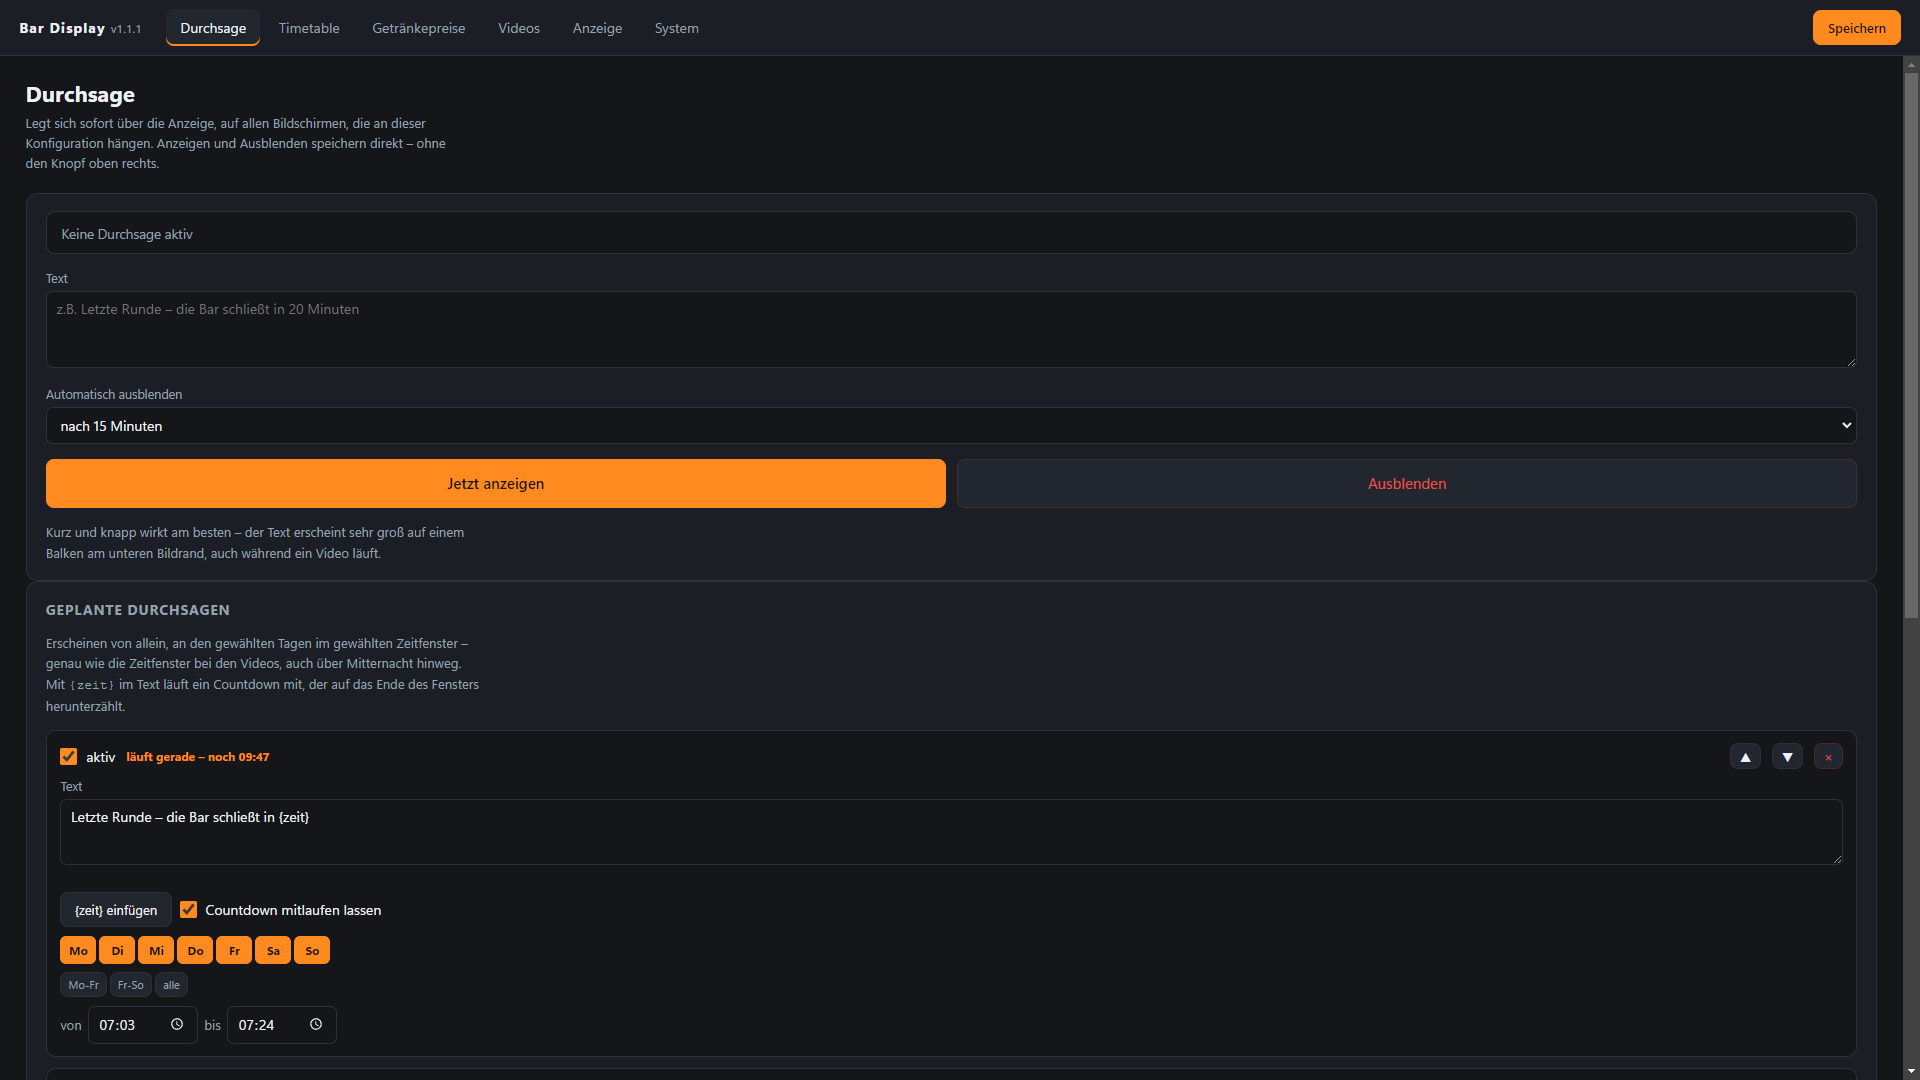
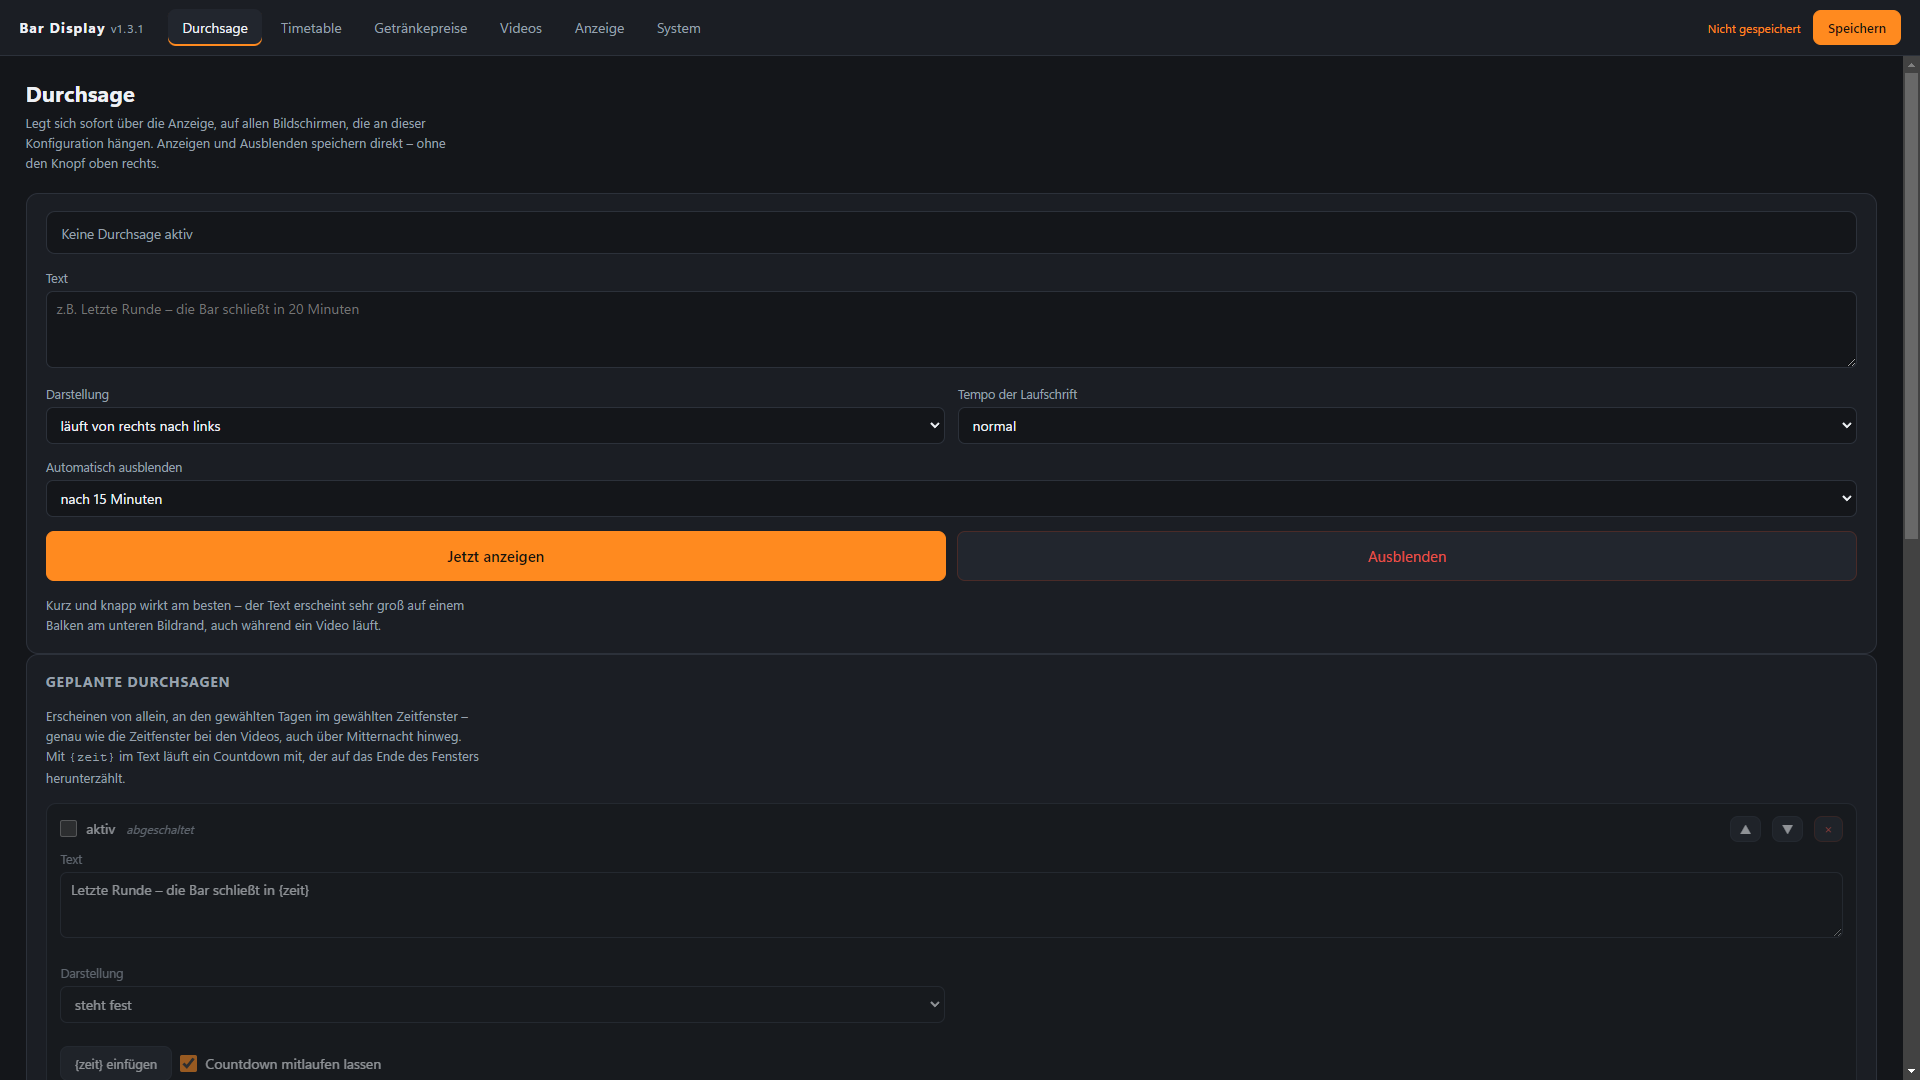
Durchsagen: Laufschrift von rechts nach links
Bisher stand jede Durchsage fest auf dem Balken - bei einem laengeren Satz war
damit Schluss. Jetzt zieht der Text wahlweise durch wie bei einem
Nachrichtensender.

- Pro Durchsage einstellbar, fuer die von Hand ausgeloeste wie fuer jeden Plan:
  Darstellung (fest / laufend) und Tempo (langsam, normal, schnell)
- Ohne Sprung: der Inhalt steht zweimal in der Spur, und wenn das zweite Stueck
  dort ankommt, wo das erste anfing, faengt die Animation wieder von vorn an
- Das Tempo rechnet in Bildschirmbreiten pro Sekunde, nicht in Pixeln. Sonst
  liefe dieselbe Einstellung auf einem grossen Fernseher gemuetlich und auf
  einem kleinen Bildschirm hektisch
- Die Dauer haengt an der Textlaenge, damit ein langer Text nicht schneller
  unterwegs ist als ein kurzer
- Ein Countdown laeuft mit: {zeit} steckt in beiden Stuecken und wird in beiden
  jede Sekunde nachgezogen
- Das Tempo-Feld wird ausgeblendet, wenn die Durchsage fest steht - sonst waere
  es ein Feld, das nichts tut

Dabei gefunden: der Balken wurde erst sichtbar gemacht, nachdem der Inhalt
gebaut war. Die Laufschrift misst dabei ihre eigene Breite, um die Dauer zu
bestimmen - in einem ausgeblendeten Element ist die aber null, und das Tempo
fiel stumm auf einen Ersatzwert zurueck. Reihenfolge getauscht.

Zwoelf neue Pruefungen, dazu am laufenden Bild gegengeprueft: die Spur wandert
gleichmaessig und nach genau einer Stueckbreite nahtlos weiter.

diff --git a/src/settings.js b/src/settings.js
@@ -184,6 +184,10 @@ function fillDurchsage() {
   const a = state.announcement;
   const feld = $('an_text');
   if (document.activeElement !== feld) feld.value = a.text || '';
+  const stil = durchsageStil(a);
+  $('an_modus').value = stil.modus;
+  $('an_tempo').value = stil.tempo;
+  tempoZeigen($('an_modus'), $('an_tempo'));
   durchsageStatus();
   renderPlaene();
   fillUhr();
@@ -192,12 +196,23 @@ function fillDurchsage() {
     feld.dataset.wired = '1';
     feld.addEventListener('input', () => { state.announcement.text = feld.value; markDirty(); });
 
+    for (const [id, feld] of [['an_modus', 'modus'], ['an_tempo', 'tempo']]) {
+      $(id).addEventListener('change', () => {
+        state.announcement = state.announcement || {};
+        state.announcement[feld] = $(id).value;
+        tempoZeigen($('an_modus'), $('an_tempo'));
+        markDirty();
+      });
+    }
+
     $('an_zeigen').addEventListener('click', async () => {
       const text = feld.value.trim();
       if (!text) { toast('Bitte erst einen Text eingeben', true); return; }
       const minuten = Number($('an_dauer').value) || 0;
       state.announcement = Object.assign({}, state.announcement, {
         enabled: true,
+        modus: $('an_modus').value,
+        tempo: $('an_tempo').value,
         text,
         until: minuten ? new Date(Date.now() + minuten * 60000).toISOString() : ''
       });
@@ -347,12 +362,20 @@ async function fillUhr() {
     + 'Pr\u00fcfen mit <code>timedatectl status</code> auf dem Pi.';
 }
 
+// Das Tempo betrifft nur die Laufschrift - bei "steht fest" waere es ein Feld,
+// das nichts tut.
+function tempoZeigen(modusFeld, tempoFeld) {
+  const box = tempoFeld && tempoFeld.closest('.field');
+  if (box) box.style.visibility = modusFeld.value === 'lauf' ? '' : 'hidden';
+}
+
 // ---------------------------------------------------------------------------
 // Geplante Durchsagen
 // ---------------------------------------------------------------------------
 function neuerPlan() {
   return { id: uid(), enabled: true, text: '', days: [5, 6],
-           from: '01:40', to: '02:00', countdown: true };
+           from: '01:40', to: '02:00', countdown: true,
+           modus: 'fest', tempo: 'normal' };
 }
 
 function plaene() {
@@ -414,6 +437,19 @@ function planZeile(pl, i) {
       + '<textarea data-f="text" rows="2" maxlength="200" '
       + 'placeholder="z.B. Letzte Runde \u2013 die Bar schlie\u00dft in {zeit}">'
       + escapeHtml(pl.text || '') + '</textarea></label>'
+    + '<div class="twoCol">'
+      + '<label class="field"><span>Darstellung</span>'
+        + '<select data-f="modus">'
+        + '<option value="fest">steht fest</option>'
+        + '<option value="lauf">l\u00e4uft von rechts nach links</option>'
+        + '</select></label>'
+      + '<label class="field"><span>Tempo der Laufschrift</span>'
+        + '<select data-f="tempo">'
+        + '<option value="langsam">langsam</option>'
+        + '<option value="normal">normal</option>'
+        + '<option value="schnell">schnell</option>'
+        + '</select></label>'
+    + '</div>'
     + '<div class="btnRow planWerkzeug">'
       + '<button data-act="zeit">{zeit} einf\u00fcgen</button>'
       + '<label class="checkline"><input type="checkbox" data-f="countdown"'
@@ -430,6 +466,20 @@ function planZeile(pl, i) {
 
   const txt = wrap.querySelector('[data-f=text]');
   txt.addEventListener('input', () => { pl.text = txt.value; markDirty(); planStatusSetzen(wrap, pl); });
+
+  const stil = durchsageStil(pl);
+  const modusFeld = wrap.querySelector('[data-f=modus]');
+  const tempoFeld = wrap.querySelector('[data-f=tempo]');
+  modusFeld.value = stil.modus;
+  tempoFeld.value = stil.tempo;
+  tempoZeigen(modusFeld, tempoFeld);
+  wrap.querySelectorAll('select[data-f]').forEach(sel => {
+    sel.addEventListener('change', () => {
+      pl[sel.dataset.f] = sel.value;
+      tempoZeigen(modusFeld, tempoFeld);
+      markDirty();
+    });
+  });
 
   wrap.querySelectorAll('input[type=time]').forEach(inp => {
     inp.addEventListener('input', () => {

diff --git a/test/schedule.test.js b/test/schedule.test.js
@@ -13,7 +13,7 @@ vm.runInContext(code, ctx);
 const { isVideoActive, describeWindows, timetableView, entryStartEnd, dayLabel, zeitImFenster,
         fensterEnde, countdownText, aktiveDurchsage, durchsageTeile,
         fotoAusschnitt, fotoStil, ausschnittIstStandard,
-        mitgeliefertesLogo } = ctx;
+        mitgeliefertesLogo, durchsageStil, laufDauer } = ctx;
 // Ein top-level const landet in einem vm-Kontext nicht auf dem globalen
 // Objekt (Funktionsdeklarationen schon). Im Browser sehen die anderen
 // Skripte es trotzdem - hier muss man es ausdruecklich auswerten.
@@ -170,6 +170,35 @@ check('Ohne Countdown faellt der Platzhalter weg',
       durchsageTeile('Bar schliesst in {zeit}', false), [{ text: 'Bar schliesst in' }]);
 check('Grossschreibung des Platzhalters zaehlt auch',
       durchsageTeile('Noch {ZEIT}', true), [{ text: 'Noch ' }, { zeit: true }]);
+
+console.log('-- Darstellung der Durchsagen --');
+check('ohne Angabe steht sie fest', durchsageStil({}), { modus: 'fest', tempo: 'normal' });
+check('ohne Quelle auch', durchsageStil(null), { modus: 'fest', tempo: 'normal' });
+check('Laufschrift wird uebernommen',
+      durchsageStil({ modus: 'lauf', tempo: 'schnell' }), { modus: 'lauf', tempo: 'schnell' });
+check('unbekannter Modus faellt auf fest zurueck',
+      durchsageStil({ modus: 'blinken' }).modus, 'fest');
+check('unbekanntes Tempo faellt auf normal zurueck',
+      durchsageStil({ modus: 'lauf', tempo: 'rasend' }).tempo, 'normal');
+
+// Der Plan liefert die Darstellung mit, sonst wuesste die Anzeige sie nicht
+const laufPlan = { id: 'l', text: 'Hallo', days: [0,1,2,3,4,5,6],
+                   from: '00:01', to: '23:59', modus: 'lauf', tempo: 'langsam' };
+const mitLauf = aktiveDurchsage({ announcement: { plans: [laufPlan] } }, FR(12, 0));
+check('Plan reicht den Modus durch', mitLauf.modus, 'lauf');
+check('Plan reicht das Tempo durch', mitLauf.tempo, 'langsam');
+const sofortLauf = aktiveDurchsage(
+  { announcement: { enabled: true, text: 'x', modus: 'lauf' } }, FR(12, 0));
+check('Sofort-Durchsage reicht den Modus durch', sofortLauf.modus, 'lauf');
+
+// Doppelte Textlaenge heisst doppelte Dauer - sonst waere ein langer Text
+// schneller unterwegs als ein kurzer
+check('Dauer waechst mit der Textlaenge',
+      laufDauer(3840, 1920, 'normal') / laufDauer(1920, 1920, 'normal'), 2);
+check('schneller ist kuerzer als langsamer',
+      laufDauer(1920, 1920, 'schnell') < laufDauer(1920, 1920, 'langsam'), true);
+check('nie unter vier Sekunden', laufDauer(10, 1920, 'schnell'), 4);
+check('ohne Masse ein brauchbarer Ersatzwert', laufDauer(0, 0, 'normal'), 12);
 
 console.log('-- Bildausschnitt --');
 check('ohne Angabe die Mitte', fotoAusschnitt({}), { x: 50, y: 50, z: 1 });

diff --git a/src/common.js b/src/common.js
@@ -193,20 +193,51 @@ function aktiveDurchsage(cfg, now) {
       const ende = new Date(a.until);
       if (!isNaN(ende) && now.getTime() >= ende.getTime()) offen = false;
     }
-    if (offen) return { text: a.text, ende: null, quelle: 'sofort' };
+    if (offen) {
+      return Object.assign({ text: a.text, ende: null, quelle: 'sofort' },
+                           durchsageStil(a));
+    }
   }
 
   for (const p of (a.plans || [])) {
     if (!p || p.enabled === false || !p.text) continue;
     if (!windowMatches(p, now)) continue;
-    return {
+    return Object.assign({
       text: p.text,
       ende: p.countdown === false ? null : fensterEnde(p, now),
       quelle: 'plan',
       id: p.id
-    };
+    }, durchsageStil(p));
   }
   return null;
+}
+
+// ---------------------------------------------------------------------------
+// Darstellung einer Durchsage
+// ---------------------------------------------------------------------------
+// 'fest' steht einfach da - kurz, laut, fertig. 'lauf' zieht den Text von
+// rechts nach links durch wie die Laufschrift bei einem Nachrichtensender;
+// damit passt auch ein laengerer Satz auf den Balken.
+//
+// Das Tempo steht in Bildschirmbreiten pro Sekunde, nicht in Pixeln: sonst
+// liefe dieselbe Einstellung auf einem grossen Fernseher gemuetlich und auf
+// einem kleinen Bildschirm hektisch.
+const LAUF_TEMPO = { langsam: 5, normal: 9, schnell: 15 };
+
+function durchsageStil(quelle) {
+  const q = quelle || {};
+  const modus = q.modus === 'lauf' ? 'lauf' : 'fest';
+  const tempo = LAUF_TEMPO[q.tempo] ? q.tempo : 'normal';
+  return { modus, tempo };
+}
+
+// Wie lange braucht ein Durchlauf? Haengt an der Textlaenge, damit die
+// Geschwindigkeit gleich bleibt und nicht der lange Text schneller wirkt.
+function laufDauer(breitePx, fensterPx, tempo) {
+  const proSekunde = LAUF_TEMPO[tempo] || LAUF_TEMPO.normal;
+  if (!breitePx || !fensterPx) return 12;
+  const inBreiten = breitePx / fensterPx * 100;
+  return Math.max(4, Math.round(inBreiten / proSekunde * 10) / 10);
 }
 
 // Platzhalter im Text durch die Restzeit ersetzen. Steht kein Platzhalter drin,

diff --git a/src/player.js b/src/player.js
@@ -143,23 +143,49 @@ function durchsagePruefen() {
     return;
   }
 
-  const kennung = (d.quelle || '') + '|' + (d.id || '') + '|' + d.text + '|' + (d.ende ? d.ende.getTime() : '');
+  const kennung = [d.quelle || '', d.id || '', d.text, d.ende ? d.ende.getTime() : '',
+                   d.modus, d.tempo].join('|');
+  // Sichtbar machen, bevor der Inhalt gebaut wird: die Laufschrift misst ihre
+  // eigene Breite, um die Dauer zu bestimmen, und in einem ausgeblendeten
+  // Element ist jede Breite null.
+  el.classList.add('an');
   if (kennung !== durchsageStand) {
     durchsageStand = kennung;
     durchsageEnde = d.ende;
     durchsageAufbauen(el, d);
   }
   durchsageTicken();
-  el.classList.add('an');
 }
 
 // Der Text wird in Stuecke zerlegt; das Stueck mit dem Countdown bekommt ein
 // eigenes Element, damit jede Sekunde nur diese Zahl neu geschrieben wird.
 function durchsageAufbauen(el, d) {
   const ziel = el.querySelector('.durchsageText');
-  ziel.innerHTML = durchsageTeile(d.text, !!d.ende).map(t =>
+  const inhalt = durchsageTeile(d.text, !!d.ende).map(t =>
     t.zeit ? '<b class="durchsageZeit">--:--</b>' : escapeHtml(t.text)
   ).join('');
+
+  if (d.modus !== 'lauf') {
+    ziel.className = 'durchsageText';
+    ziel.removeAttribute('style');
+    ziel.innerHTML = inhalt;
+    return;
+  }
+
+  // Laufschrift: der Inhalt steht zweimal hintereinander und die Spur wandert
+  // um genau die Haelfte nach links. Am Ende sitzt das zweite Stueck exakt da,
+  // wo das erste begann - dadurch laeuft es ohne sichtbaren Sprung weiter.
+  ziel.className = 'durchsageText lauf';
+  ziel.innerHTML = '<div class="laufSpur">' +
+    '<span class="laufStueck">' + inhalt + '</span>' +
+    '<span class="laufStueck" aria-hidden="true">' + inhalt + '</span>' +
+    '</div>';
+
+  const spur = ziel.querySelector('.laufSpur');
+  const stueck = ziel.querySelector('.laufStueck');
+  const dauer = laufDauer(stueck.getBoundingClientRect().width,
+                          ziel.getBoundingClientRect().width, d.tempo);
+  spur.style.animationDuration = dauer + 's';
 }
 
 function durchsageTicken() {

diff --git a/src/player.css b/src/player.css
@@ -666,6 +666,31 @@ body.instant .layer { transition: none; }
   max-width: 88%;
 }
 
+/* Laufschrift wie bei einem Nachrichtensender. Der Inhalt steht zweimal in der
+   Spur; sie wandert um die Haelfte nach links und faengt dann von vorn an -
+   dadurch entsteht ein durchgehender Lauf ohne Sprung. */
+.durchsageText.lauf {
+  max-width: 100%;
+  overflow: hidden;
+}
+.durchsageText.lauf .laufSpur {
+  display: flex;
+  width: max-content;
+  animation-name: laufen;
+  animation-timing-function: linear;
+  animation-iteration-count: infinite;
+  will-change: transform;
+}
+.durchsageText.lauf .laufStueck {
+  white-space: nowrap;
+  padding-right: 6vw;
+}
+
+@keyframes laufen {
+  from { transform: translateX(0); }
+  to { transform: translateX(-50%); }
+}
+
 /* Der laufende Countdown. Feste Ziffernbreite, sonst zappelt der Text bei
    jedem Sekundenwechsel hin und her. */
 /* ------------------------------------------------------------------ */

diff --git a/pi/server.js b/pi/server.js
@@ -56,6 +56,7 @@ const STANDARD = {
     logo: '', logoHeight: 9, fontFile: '',
     titleStyle: 'blob', pattern: 'dots', displayId: '', rotation: 0,
     sparmodus: false,
+    fernbedienung: true, fernPort: 8080, fernHinweis: true,
     transition: 'fade', transitionMs: 900,
     qrEnabled: false, qrUrl: '', qrLabel: 'Programm & Infos',
     timetableTitle: 'TIMETABLE', timetableSubtitle: 'line up',
@@ -65,7 +66,8 @@ const STANDARD = {
     fadeMs: 700, imageDuration: 12, timetableMaxNext: 5, priceNote: ''
   },
   videos: [], timetable: [], prices: [],
-  announcement: { enabled: false, text: '', until: '', plans: [] },
+  announcement: { enabled: false, text: '', until: '',
+                  modus: 'fest', tempo: 'normal', plans: [] },
   quiet: { enabled: false, from: '06:00', to: '14:00' },
   special: { enabled: false, label: 'SPEZIALSHOT', name: '', size: '', price: '', text: '' }
 };

diff --git a/src/settings.html b/src/settings.html
@@ -57,6 +57,11 @@
                     placeholder="z.B. Letzte Runde &ndash; die Bar schlie&szlig;t in 20 Minuten"></textarea>
         </label>
 
+        <div class="twoCol">
+          <label class="field"><span>Darstellung</span><select id="an_modus"><option value="fest">steht fest</option><option value="lauf">l&auml;uft von rechts nach links</option></select></label>
+          <label class="field"><span>Tempo der Laufschrift</span><select id="an_tempo"><option value="langsam">langsam</option><option value="normal">normal</option><option value="schnell">schnell</option></select></label>
+        </div>
+
         <label class="field">
           <span>Automatisch ausblenden</span>
           <select id="an_dauer">

diff --git a/main.js b/main.js
@@ -79,7 +79,8 @@ const DEFAULT_CONFIG = {
   // Durchsage, die sich vom Handy ueber alles legen laesst
   // enabled/text/until = die von Hand ausgeloeste Durchsage,
   // plans = der Wochenplan, siehe aktiveDurchsage() in src/common.js
-  announcement: { enabled: false, text: '', until: '', plans: [] },
+  announcement: { enabled: false, text: '', until: '',
+                  modus: 'fest', tempo: 'normal', plans: [] },
   // Ruhezeit: Bildschirm ausserhalb der Oeffnungszeiten schwarz
   quiet: { enabled: false, from: '06:00', to: '14:00' },
   // Hervorgehobener Shot unter den Preisspalten

diff --git a/README.md b/README.md
@@ -59,6 +59,9 @@ Getränkepreise im Festival-Design.
 - **Countdown im Balken** — mit `{zeit}` im Text läuft eine Uhr mit, die
   sekundengenau auf das Ende des Fensters herunterzählt: „Letzte Runde – die Bar
   schließt in 11:30"
+- **Laufschrift** — der Text zieht von rechts nach links durch wie bei einem
+  Nachrichtensender, in drei Geschwindigkeiten. Damit passt auch ein längerer
+  Satz auf den Balken.
 - **Ruhezeit** — außerhalb der Öffnungszeiten bleibt der Bildschirm schwarz und
   die Schleife steht still. Schont das Gerät und spart Strom.
 - **QR-Code** auf dem Timetable, der auf eure Festivalseite zeigt – abschaltbar,
@@ -216,6 +219,27 @@ und verschwindet von allein; niemand muss daran denken.
 
 ![Durchsage mit Countdown über einem laufenden Clip](docs/screenshots/anzeige-durchsage.png)
 
+#### Darstellung
+
+Zwei Möglichkeiten, für jede Durchsage einzeln einstellbar:
+
+| Darstellung | Wann |
+|---|---|
+| **steht fest** | Kurze Ansagen. Der Text steht ruhig da und ist im Vorbeigehen zu erfassen |
+| **läuft von rechts nach links** | Längere Texte. Zieht durch wie bei einem Nachrichtensender |
+
+![Laufschrift über einem Clip](docs/screenshots/anzeige-lauftext.png)
+
+Die Laufschrift läuft ohne Sprung: der Text steht zweimal hintereinander in der
+Spur, und wenn die zweite Fassung dort ankommt, wo die erste anfing, beginnt
+sie wieder von vorn. Das Tempo gibt es in **langsam**, **normal** und
+**schnell** – gerechnet in Bildschirmbreiten pro Sekunde, damit dieselbe
+Einstellung auf einem großen Fernseher und auf einem kleinen Bildschirm gleich
+schnell wirkt. Ein längerer Text braucht entsprechend länger, statt schneller
+durchzuhuschen.
+
+Ein Countdown läuft dabei ganz normal mit.
+
 #### Countdown
 
 Steht `{zeit}` im Text, läuft an dieser Stelle eine Uhr mit, die sekundengenau auf
@@ -326,7 +350,7 @@ Darunter liegen die **geplanten Durchsagen**.
 
 ![Geplante Durchsagen](docs/screenshots/einstellungen-durchsage-plan.png)
 
-Pro Eintrag: Text, Wochentage, Von–Bis und zwei Haken.
+Pro Eintrag: Text, Wochentage, Von–Bis, Darstellung und zwei Haken.
 
 - **aktiv** schaltet einen Eintrag vorübergehend ab, ohne ihn zu löschen.
 - **{zeit} einfügen** setzt den Platzhalter dort ein, wo der Cursor gerade steht.
